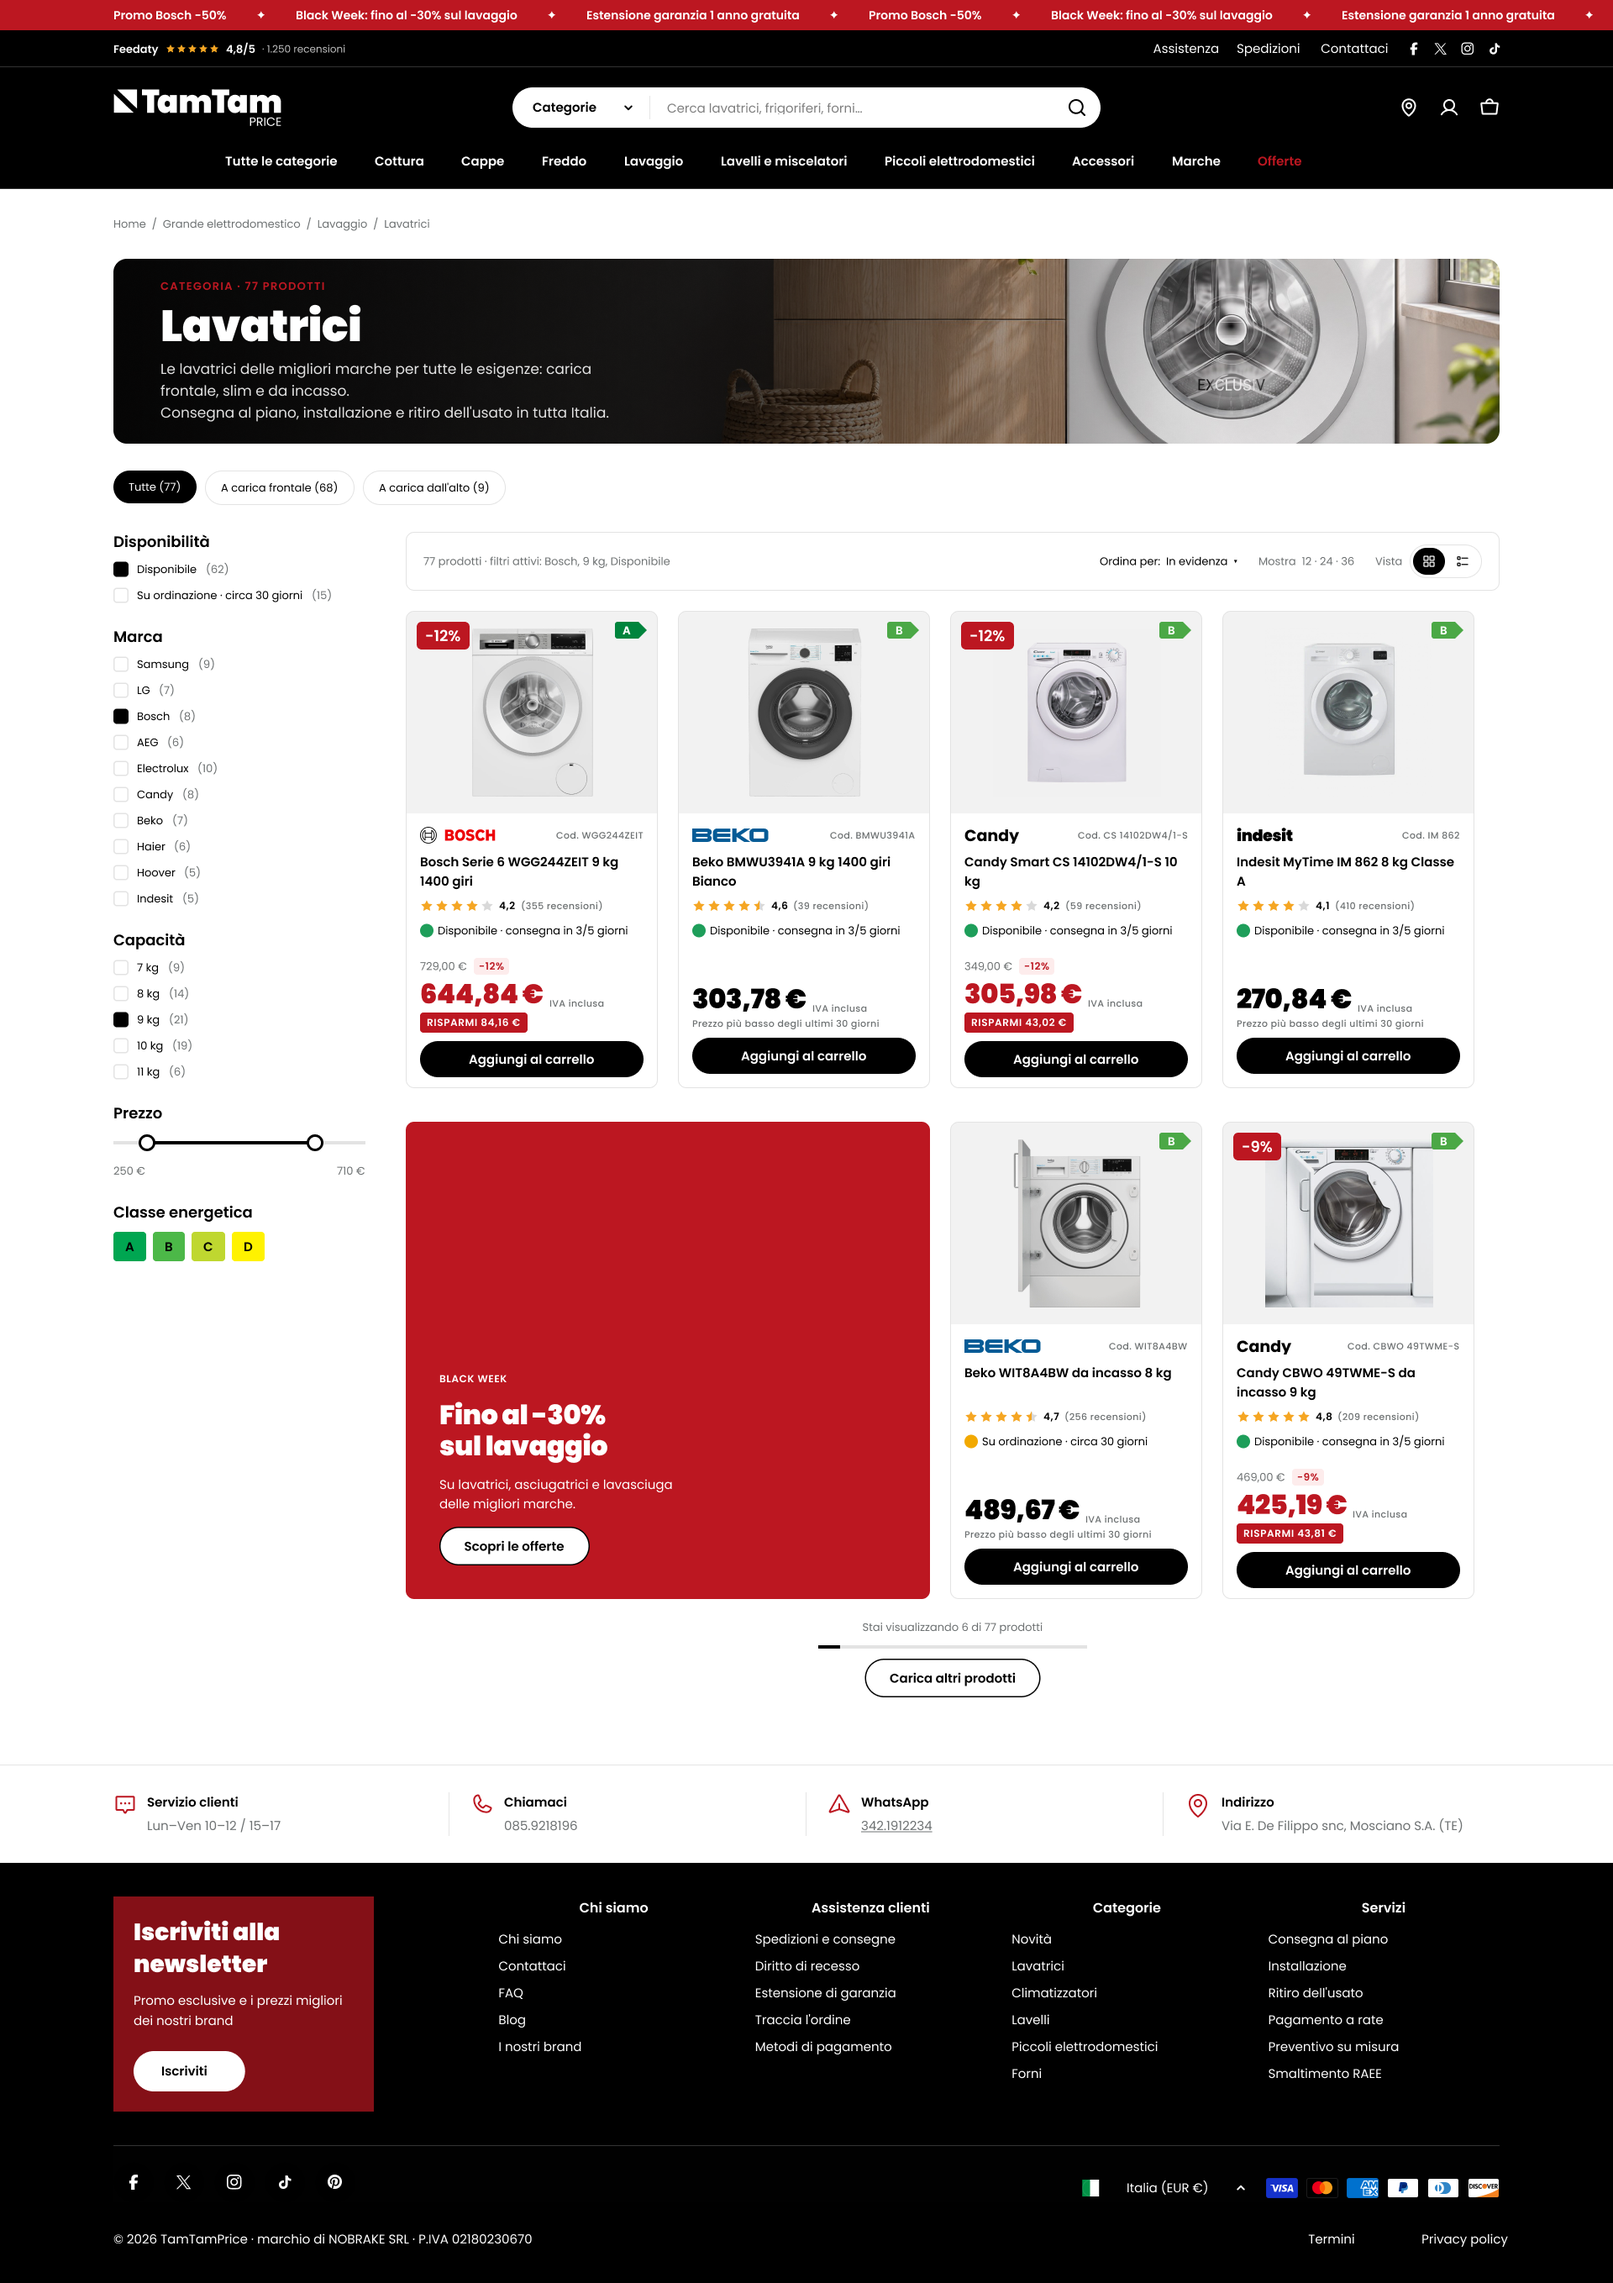
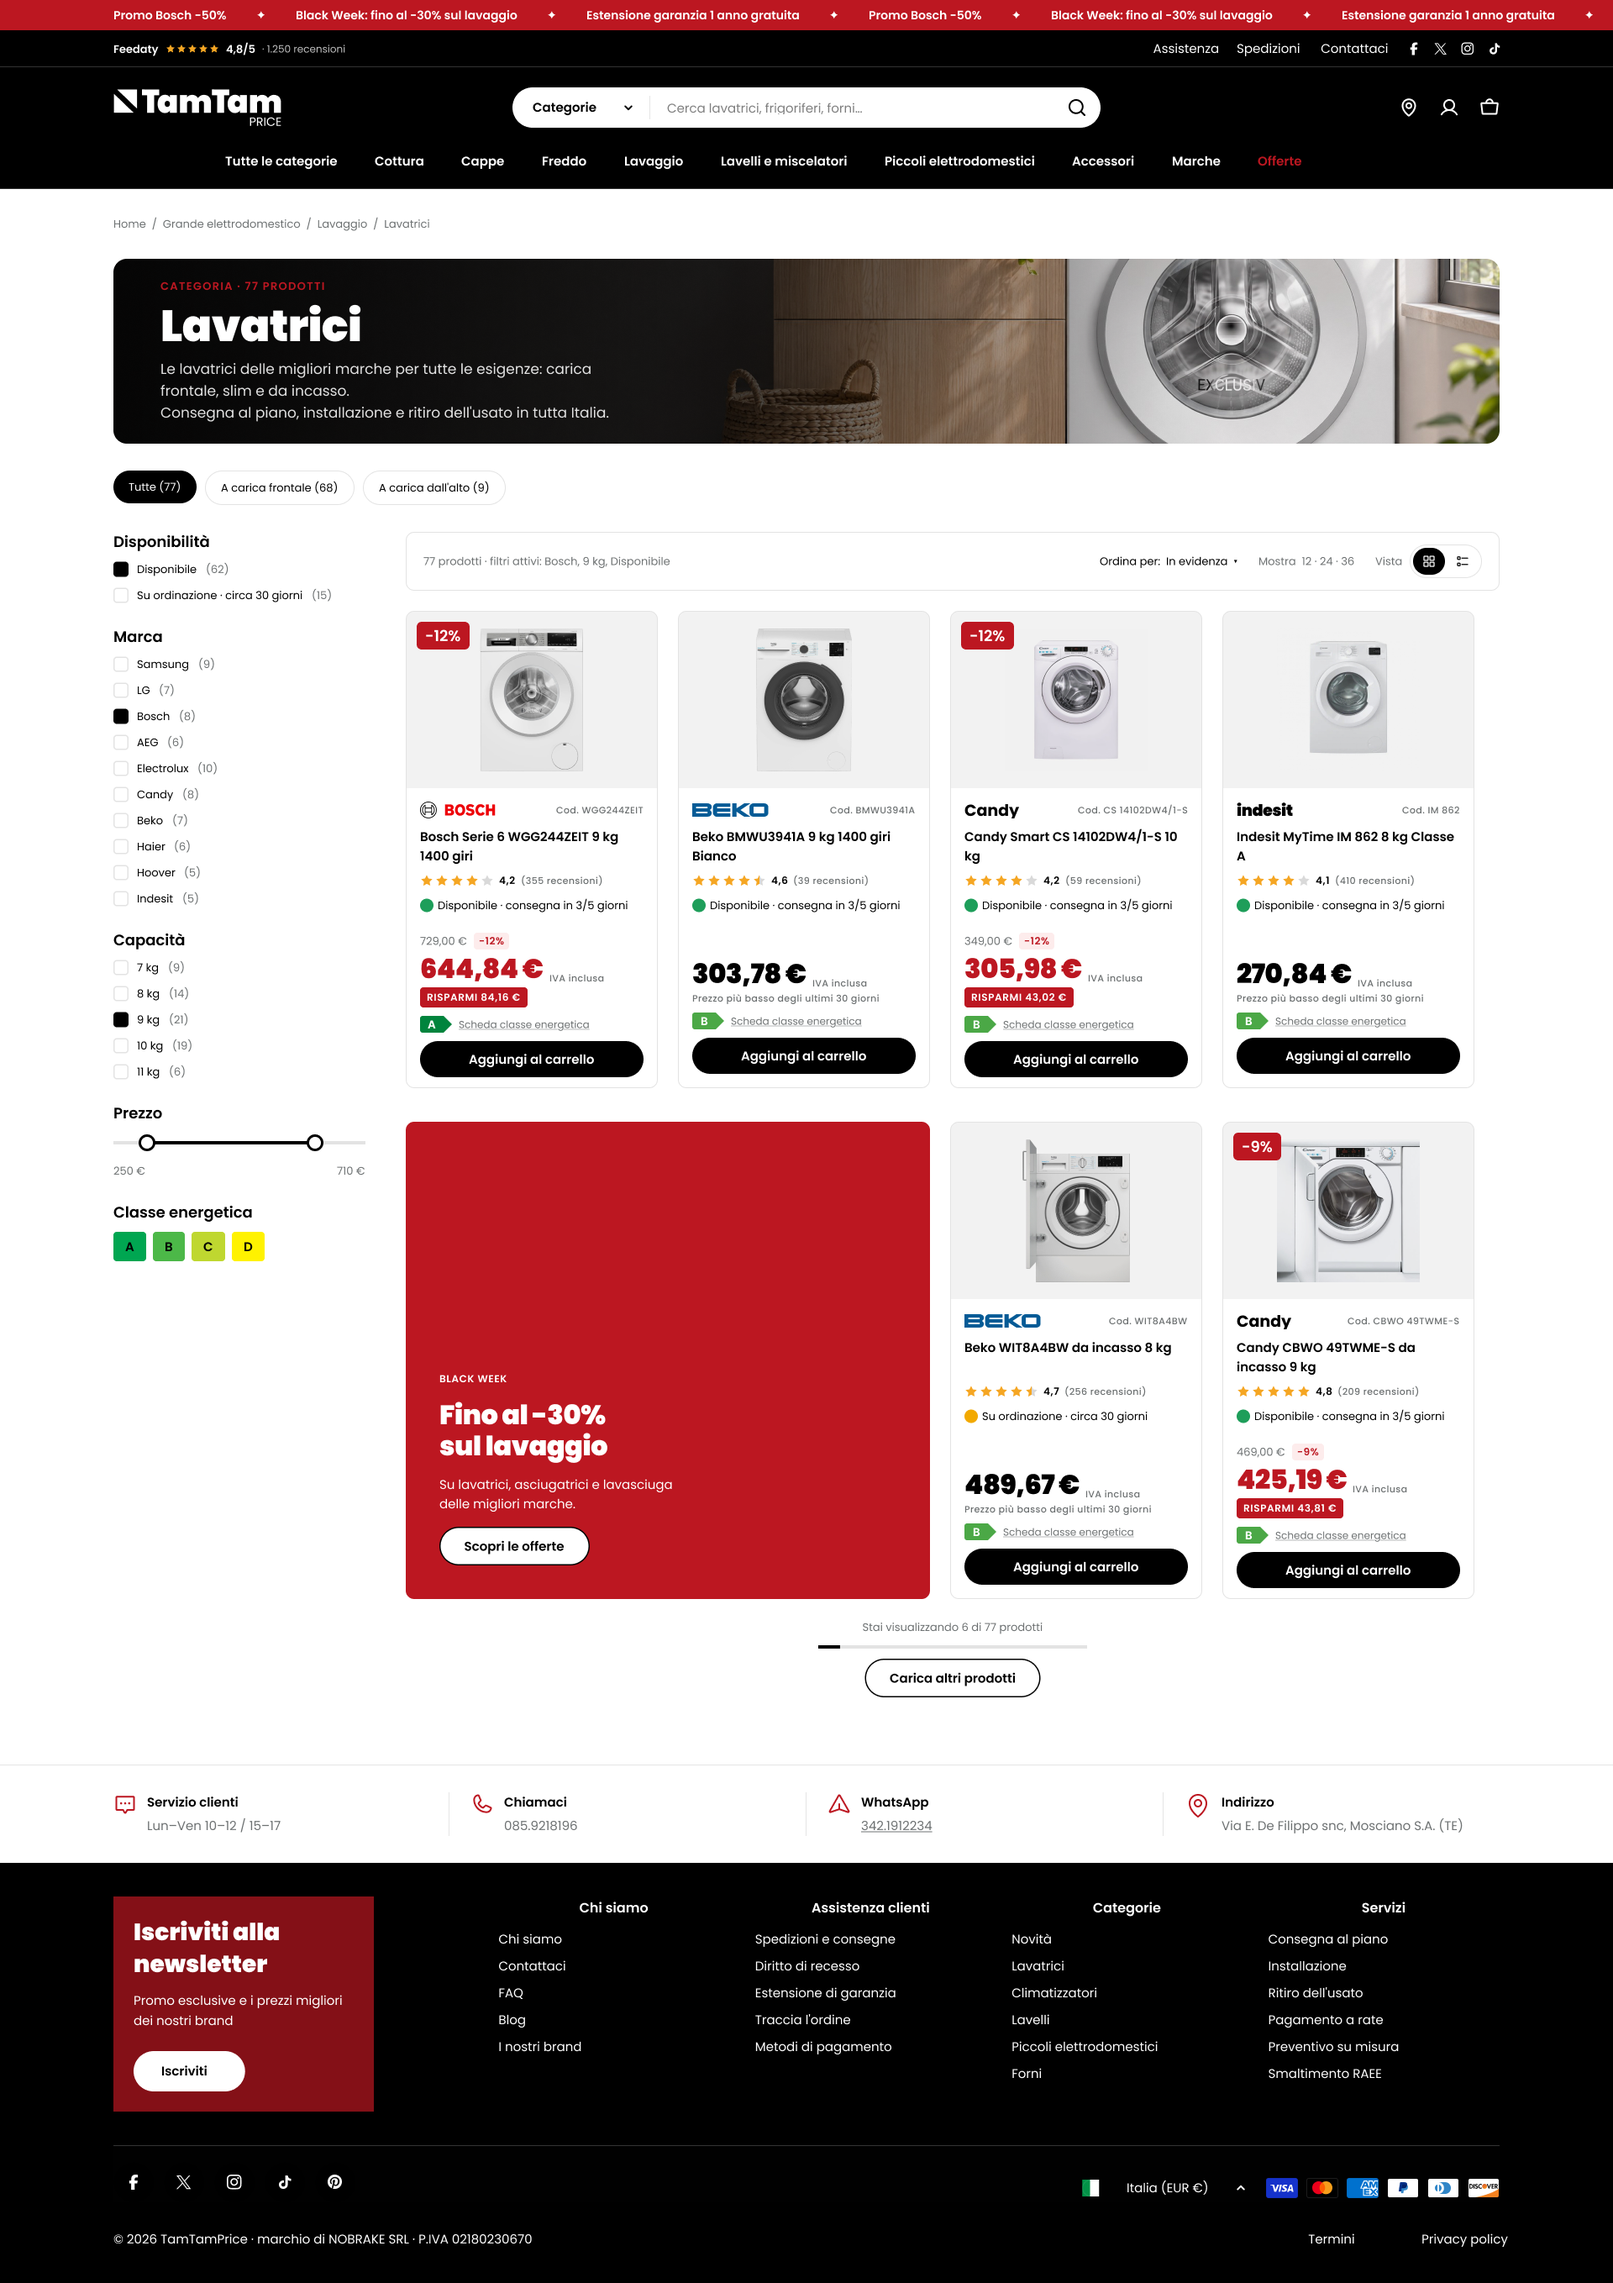
Energy class row above 'Aggiungi al carrello' with 'Scheda classe energetica' link on all product cards
Claude-Session: https://claude.ai/code/session_01DzDcr4Xa4AaqXv1Nbqd2T5

diff --git a/docs/figma/garanzia-pagamenti-energia.md b/docs/figma/garanzia-pagamenti-energia.md
@@ -38,10 +38,15 @@ official logos are supplied. Instalment amounts are the product price / 3.
 
 ## Energy class on product cards
 
-All four card sets (grid, list, mobile grid, mobile list) have a `Classe energetica` instance in the photo's top-right
-corner (exposed, variant `Classe`) and a boolean property **`Mostra classe energetica`**. Classes set by product type
+All four card sets (grid, list, mobile grid, mobile list) have a row **`Classe energetica · riga`** right above
+"Aggiungi al carrello" (mobile grid/list: at the end of the info column): the EU arrow `Classe energetica` (exposed,
+variant `Classe`) + an underlined link "Scheda classe energetica" (mobile: "Scheda energetica"). The boolean property
+**`Mostra classe energetica`** shows or hides the whole row. To keep grid cards the same height, the photo area was
+made shorter by the height of the row (2026-11-24, second pass; first version had the arrow on the photo). Classes set by product type
 (placeholders to check against the data sheets): washing machines A (Beko, Candy, Indesit, Hoover, Haier B), dryers
 B, washer-dryers D, dishwashers D (Bosch C), fridges/freezers E, ovens A+, cookers A, hoods A (Turbo Air B).
 Hidden on products without an EU energy label: hobs, sinks, microwaves, coffee machines.
+Trovaincasso's sample archive page (02 / 02b / M02) is "Piani cottura": hobs have no EU energy label, so only the
+Samsung NZ84 (induction hob with integrated hood) shows a class there.
 Note: when the property is off, the badge disappears from the instance's layer list too, so turn it on before
 changing the class.
